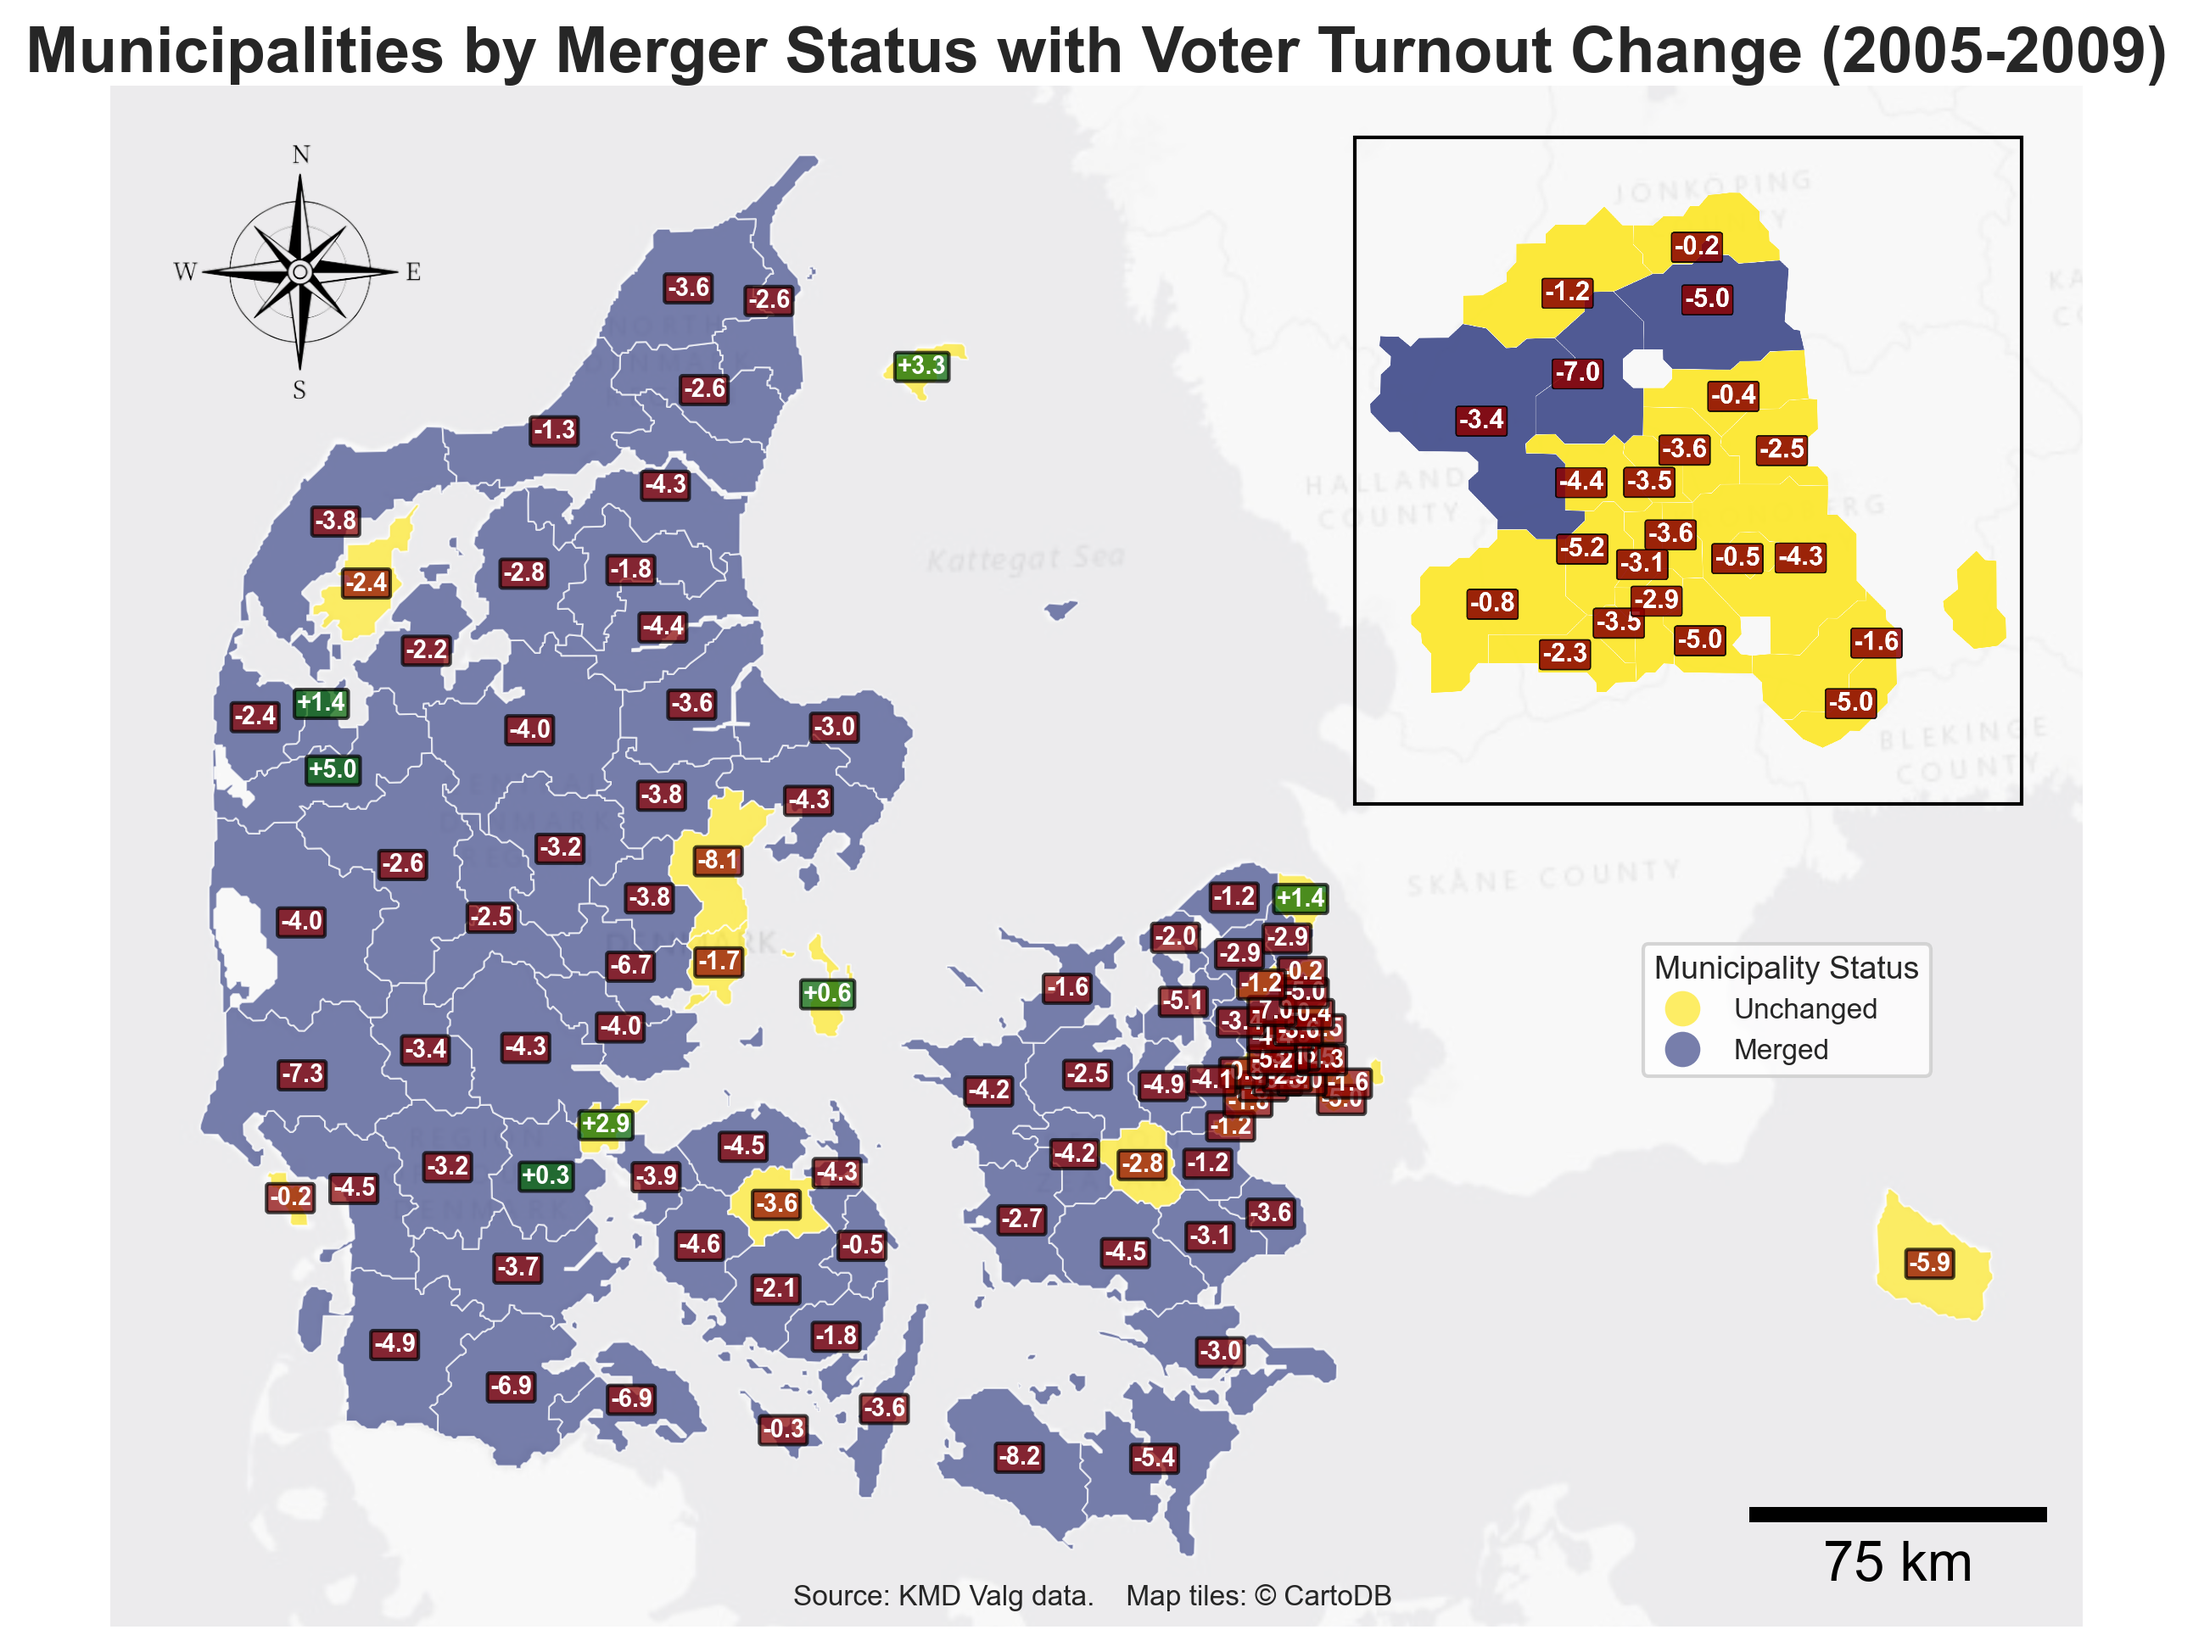
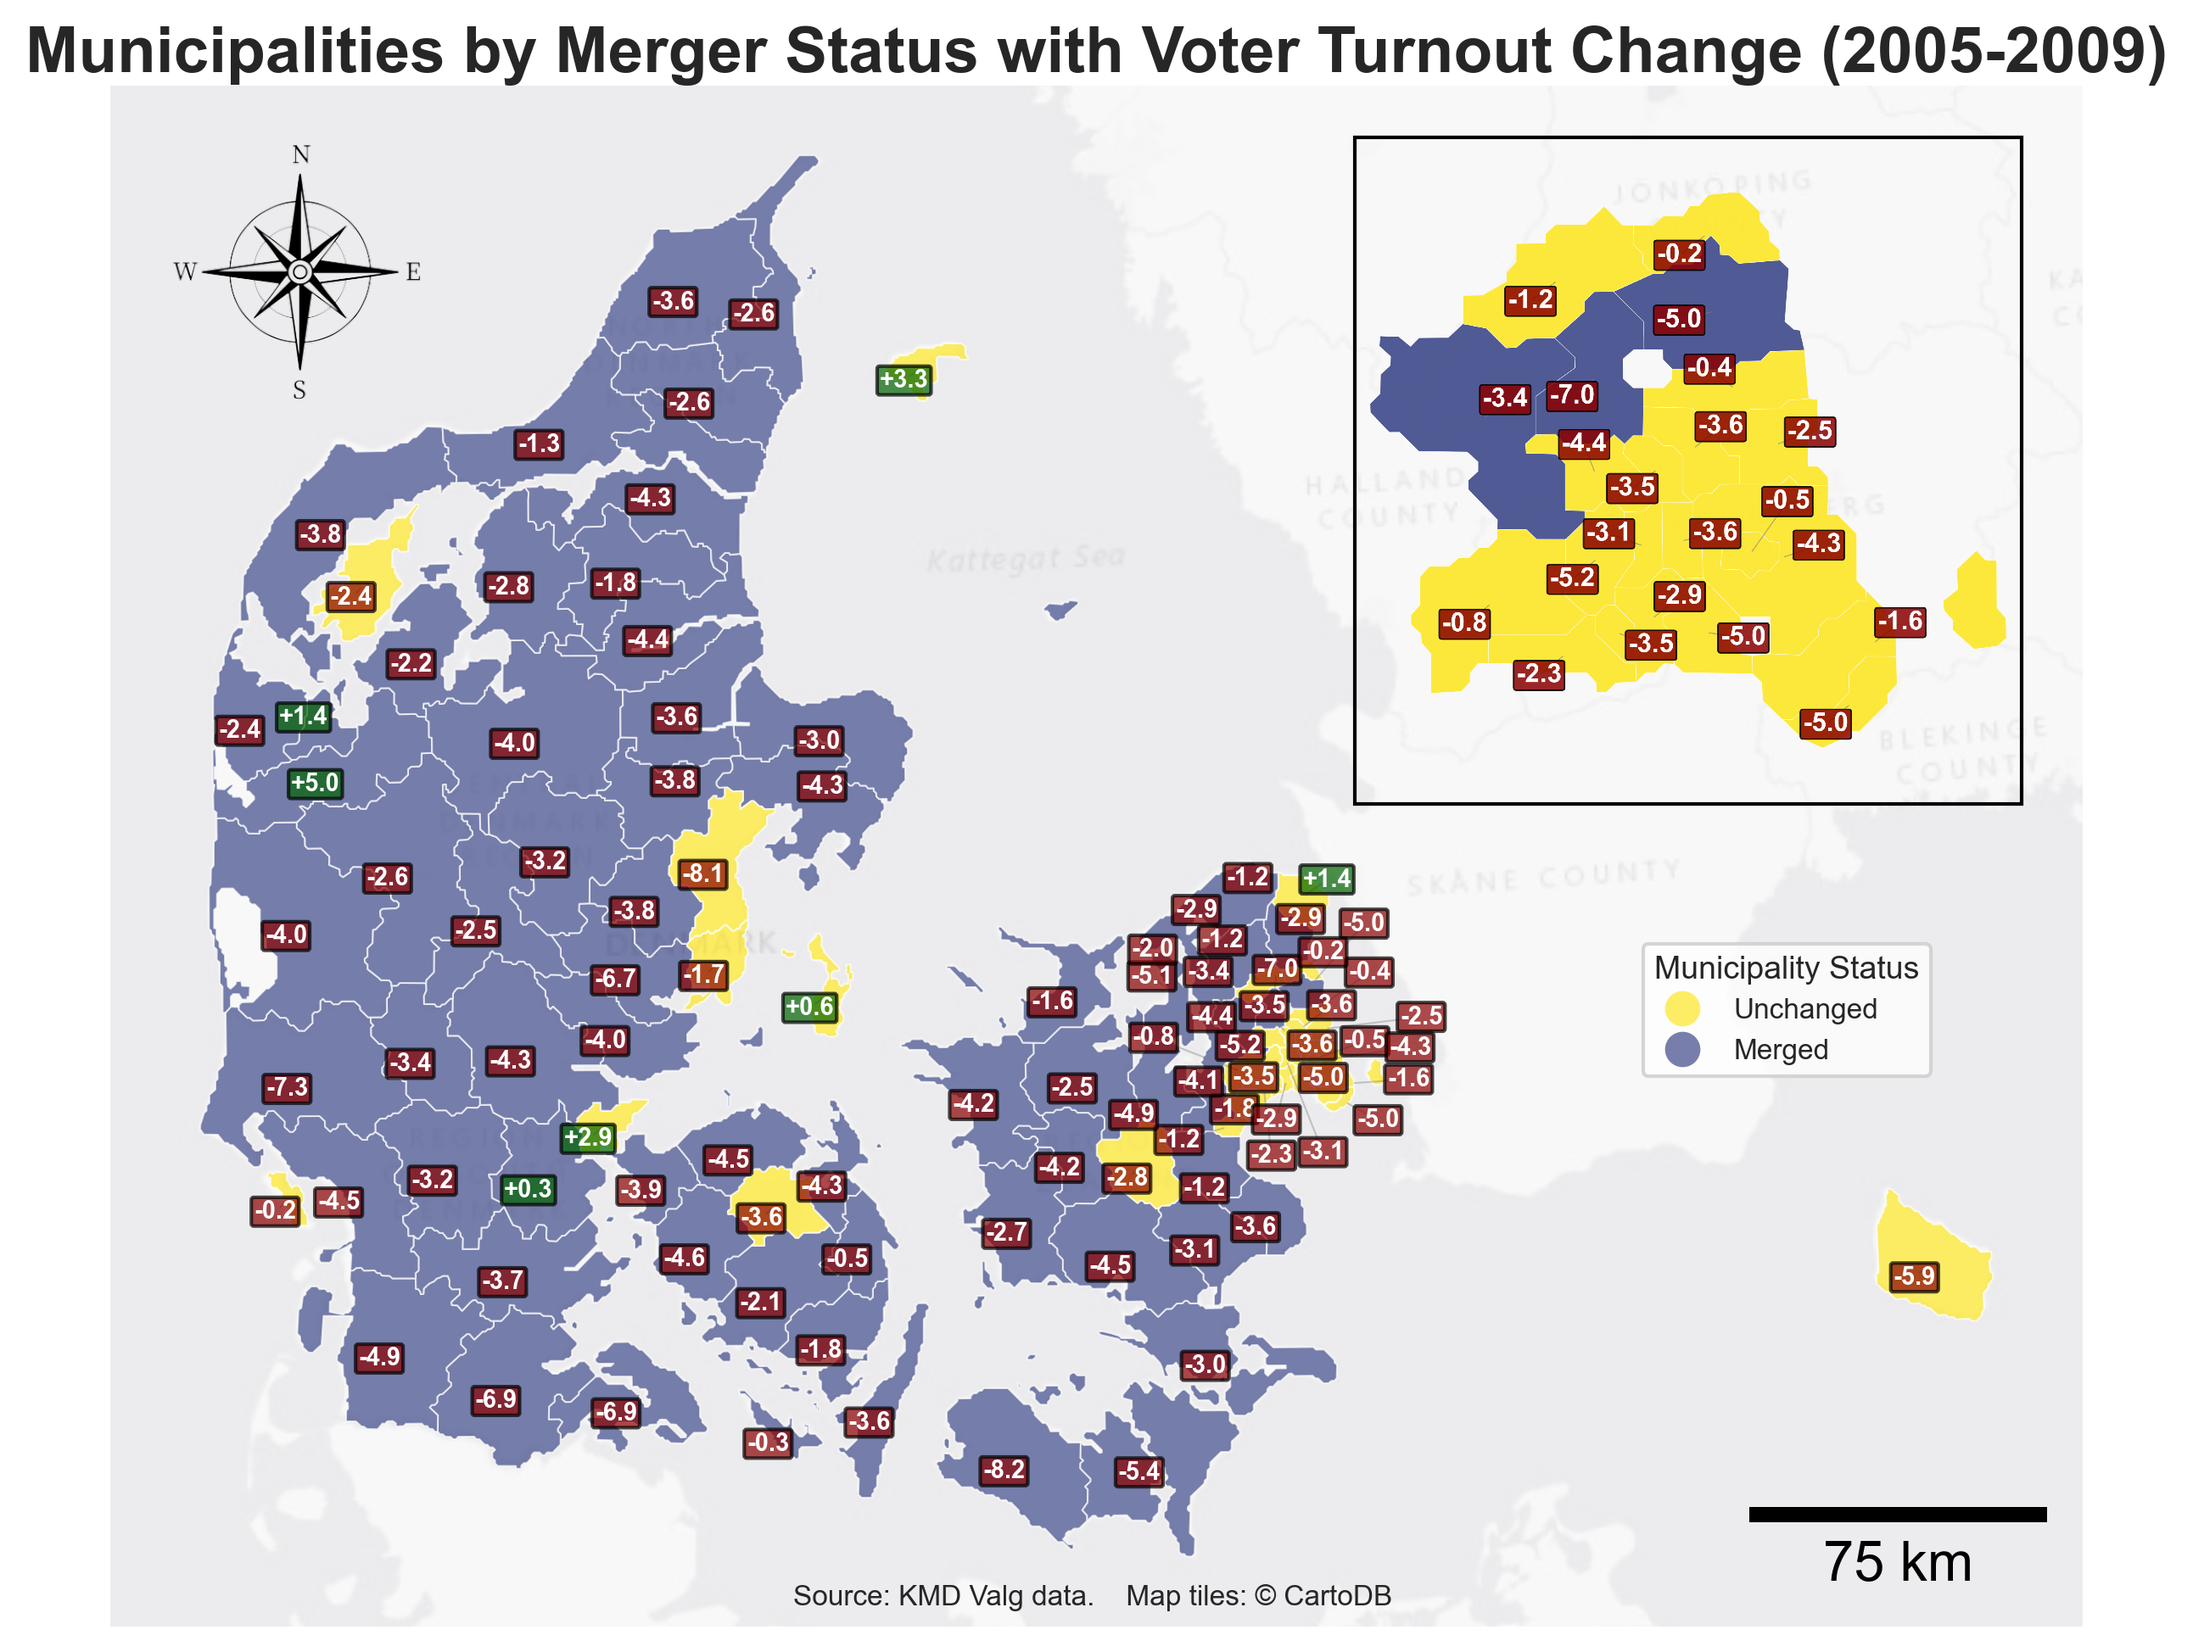
Enhance centroid label placement in visualizations using adjustText
- Replaced jittering method with adjustText for improved label placement on maps.
- Updated the add_centroid_labels method to accept adjust_text_args for customization.
- Removed obsolete jittering logic to streamline the code and enhance readability.
- Adjusted parameters for better label optimization and reduced overlap.

diff --git a/src/services/visualizer.py b/src/services/visualizer.py
@@ -11,6 +11,7 @@ from matplotlib.offsetbox import OffsetImage, AnnotationBbox
 from services.data_analyzer import DataAnalyzer
 import geopandas as gpd
 import random
+from adjustText import adjust_text
 
 
 class Visualizer:
@@ -705,7 +706,7 @@ class Visualizer:
             how="left",
         )
 
-        # Add centroid labels with turnout change values using the enhanced method
+        # Add centroid labels with turnout change values using adjustText
         self.add_centroid_labels(
             ax=ax,
             gdf=merged_data,
@@ -716,8 +717,12 @@ class Visualizer:
             negative_color="darkred",
             show_sign=True,
             alpha=0.7,
-            pad=1,
-            jitter=False,
+            pad=0.5,
+            adjust_text_args={
+                "force_points": 0.2,
+                "force_text": 0.8,
+                "expand_points": (1.5, 1.5),
+            },
         )
 
         # Create and add Copenhagen inset with both merger status coloring and turnout change labels
@@ -735,6 +740,11 @@ class Visualizer:
                 "positive_color": "darkgreen",
                 "negative_color": "darkred",
                 "show_sign": True,
+                "adjust_text_args": {
+                    "expand_points": (2.0, 2.0),
+                    "force_text": 0.8,
+                    "arrowprops": dict(arrowstyle="-", color="gray", alpha=0.6, lw=0.7),
+                },
             },
         )
 
@@ -951,12 +961,9 @@ class Visualizer:
         category_colors=None,
         use_fixed_color=None,
         format_func=None,
-        jitter=True,
-        jitter_seed=42,
-        jitter_max_attempts=100,
-        jitter_radius=None,
+        adjust_text_args=None,
     ):
-        """Add centroid labels to municipalities on a map.
+        """Add centroid labels to municipalities on a map with optimized placement.
 
         Args:
             ax: Matplotlib axis to add labels to
@@ -973,24 +980,12 @@ class Visualizer:
             category_colors: Dictionary mapping category values to colors
             use_fixed_color: If provided, use this color for all labels
             format_func: Custom function to format label text and determine color
-            jitter: Whether to apply jittering to avoid label overlap
-            jitter_seed: Random seed for reproducible jittering
-            jitter_max_attempts: Maximum attempts to find non-overlapping position
-            jitter_radius: Maximum jittering radius in map units (if None, auto-calculated)
+            adjust_text_args: Dictionary of arguments to pass to adjust_text
         """
         self.logger.info(f"Adding centroid labels for {len(gdf)} municipalities")
 
-        # Set random seed for reproducible jittering
-        random.seed(jitter_seed)
-
-        # Store text objects and their bounding boxes for collision detection
-        placed_texts = []
-
-        # Calculate a default jitter radius if not provided (as % of map width)
-        if jitter and jitter_radius is None:
-            bounds = gdf.total_bounds  # Get the bounds of the entire dataset
-            map_width = bounds[2] - bounds[0]
-            jitter_radius = map_width * 0.03  # 3% of map width as default radius
+        # Store all text objects for adjustText
+        texts = []
 
         # Add centroid labels with values
         for _, row in gdf.iterrows():
@@ -1023,75 +1018,10 @@ class Visualizer:
                 if use_fixed_color:
                     color = use_fixed_color
 
-                # Apply jittering to avoid overlaps if enabled
-                x, y = centroid.x, centroid.y
-
-                if jitter and placed_texts:
-                    # Start with the centroid position
-                    best_position = (x, y)
-                    lowest_overlap = float("inf")
-
-                    # Try different positions to minimize overlap
-                    for attempt in range(jitter_max_attempts):
-                        # Generate a random position within the jitter radius
-                        angle = random.uniform(0, 2 * 3.14159)  # Random angle
-                        distance = random.uniform(0, jitter_radius)  # Random distance
-                        test_x = x + distance * np.cos(angle)
-                        test_y = y + distance * np.sin(angle)
-
-                        # Create a test text to check for overlap
-                        test_text = ax.text(
-                            test_x,
-                            test_y,
-                            label,
-                            fontsize=fontsize,
-                            ha="center",
-                            va="center",
-                        )
-
-                        # Get the bounding box
-                        test_bbox = test_text.get_window_extent(
-                            renderer=ax.figure.canvas.get_renderer()
-                        )
-
-                        # Calculate overlap with existing texts
-                        overlap = 0
-                        for placed_text, _ in placed_texts:
-                            placed_bbox = placed_text.get_window_extent(
-                                renderer=ax.figure.canvas.get_renderer()
-                            )
-                            # Check if bounding boxes intersect
-                            if test_bbox.overlaps(placed_bbox):
-                                # Calculate the overlap area
-                                overlap_width = min(test_bbox.x1, placed_bbox.x1) - max(
-                                    test_bbox.x0, placed_bbox.x0
-                                )
-                                overlap_height = min(
-                                    test_bbox.y1, placed_bbox.y1
-                                ) - max(test_bbox.y0, placed_bbox.y0)
-                                overlap += max(0, overlap_width) * max(
-                                    0, overlap_height
-                                )
-
-                        # Remove the test text
-                        test_text.remove()
-
-                        # If this position has less overlap, use it
-                        if overlap < lowest_overlap:
-                            lowest_overlap = overlap
-                            best_position = (test_x, test_y)
-
-                        # If we found a position with no overlap, stop early
-                        if lowest_overlap == 0:
-                            break
-
-                    # Use the best position found
-                    x, y = best_position
-
-                # Add text annotation with the value at the (possibly jittered) position
+                # Add text annotation at the centroid position
                 text = ax.text(
-                    x,
-                    y,
+                    centroid.x,
+                    centroid.y,
                     label,
                     fontsize=fontsize,
                     ha="center",
@@ -1101,11 +1031,33 @@ class Visualizer:
                     bbox=dict(
                         facecolor=color, alpha=alpha, pad=pad, boxstyle="round,pad=0.1"
                     ),
+                    zorder=5,  # Set labels above map
                 )
 
-                # Store the text and its properties for future collision detection
-                if jitter:
-                    placed_texts.append((text, (x, y)))
+                # Collect text objects for adjustText
+                texts.append(text)
+
+        # Apply adjustText to optimize label placement
+        if texts:
+            self.logger.info("Applying adjustText to optimize label placement")
+
+            # Default parameters for adjustText
+            default_adjust_params = {
+                "expand_points": (1.5, 1.5),
+                "force_points": 0.1,  # Lower force from points
+                "force_text": 0.5,  # Higher force between texts
+                "lim": 500,  # More iterations for better placement
+                "only_move": {"text": "xy"},  # Only move the text, not the points
+                "arrowprops": dict(arrowstyle="-", color="gray", alpha=0.4, lw=0.5),
+                "avoid_self": True,  # Avoid overlaps between texts
+            }
+
+            # Update with user-provided parameters if any
+            if adjust_text_args:
+                default_adjust_params.update(adjust_text_args)
+
+            # Run the adjustText algorithm
+            adjust_text(texts, **default_adjust_params)
 
     def create_all_visualizations(self) -> None:
         """Create all visualizations at once."""
